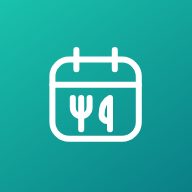
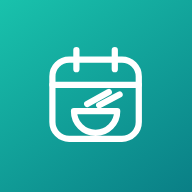
Add files via upload

diff --git a/index.html b/index.html
@@ -9,8 +9,8 @@ window.zmTheme=function(t){if(t){try{localStorage['meals.theme']=t}catch(e){}d.d
 var s=st();if(s)d.dataset.theme=s;zmTheme();m.addEventListener?m.addEventListener('change',function(){zmTheme()}):m.addListener&&m.addListener(function(){zmTheme()})})()</script>
 <meta name="apple-mobile-web-app-capable" content="yes">
 <meta name="apple-mobile-web-app-title" content="Zhou Menu">
-<link rel="manifest" href="manifest.json"><link rel="icon" href="icon-192.png">
-<link rel="apple-touch-icon" href="icon-192.png">
+<link rel="manifest" href="manifest.json"><link rel="icon" type="image/svg+xml" href="icon.svg"><link rel="icon" type="image/png" href="icon-192.png">
+<link rel="apple-touch-icon" href="icon-180.png">
 <title>Zhou Menu</title>
 <style>
 :root{--bg:#F1F4F3;--card:#fff;--blk:#E8EEEC;--ink:#17201E;--mute:#8A9591;--line:#EBF0EE;--line2:#D3DCD9;--acc:#2C6B5F;--acc-t:#DAEDE7;--hb:#DCE8FA;--hd:#4A7BCB;--ob:#E8DFF8;--od:#8A66C8;color-scheme:light}
@@ -26,7 +26,7 @@ h1{margin:0;font-size:26px;letter-spacing:-.02em}#wk{margin:2px 0 0;color:var(--
 .ib{position:relative;width:40px;height:40px;border:0;border-radius:12px;background:var(--card);color:var(--ink);display:grid;place-items:center;cursor:pointer;transition:transform .15s}
 .ib:active{transform:scale(.92)}
 svg{width:20px;height:20px;fill:none;stroke:currentColor;stroke-width:1.7;stroke-linecap:round;stroke-linejoin:round}
-#dot{position:absolute;top:8px;right:8px;width:8px;height:8px;border-radius:50%;background:var(--mute);border:2px solid var(--card);transition:background .3s}
+#dot{display:inline-block;width:6px;height:6px;border-radius:50%;margin-left:7px;vertical-align:middle;background:var(--mute);transition:background .3s}
 #dot[data-s=ok]{background:var(--acc)}#dot[data-s=sync]{background:#E0A63A;animation:pulse 1s infinite}#dot[data-s=off]{background:#D2625A}#dot[data-s=none]{display:none}
 @keyframes pulse{50%{opacity:.35}}
 .ban{display:flex;align-items:center;justify-content:space-between;gap:10px;background:var(--acc-t);border-radius:14px;padding:8px 8px 8px 14px;margin:0 0 12px;font-size:13px}
@@ -58,8 +58,8 @@ footer.hold{transform:scale(1.5);opacity:1;transition:transform .7s linear,opaci
 #bar{position:fixed;left:0;right:0;bottom:var(--kb,0px);max-width:560px;margin:0 auto;background:var(--card);border-radius:20px 20px 0 0;padding:12px 12px calc(env(safe-area-inset-bottom) + 8px);box-shadow:0 -8px 28px rgba(0,0,0,.14);transform:translateY(110%);transition:transform .34s cubic-bezier(.22,.9,.3,1);will-change:transform;z-index:55}
 #bar.on{transform:none}
 #bar .r{display:flex;gap:8px}
-#bar input,.sh input{font:inherit;font-size:16px;padding:11px 12px;border-radius:12px;border:1.5px solid var(--line2);background:var(--bg);color:var(--ink);outline:0;transition:border-color .2s}
-#bar input{flex:1;min-width:0}#bar input:focus,.sh input:focus{border-color:var(--acc)}
+#bar input,.sh input,#log input{font:inherit;font-size:16px;padding:11px 12px;border-radius:12px;border:1.5px solid var(--line2);background:var(--bg);color:var(--ink);outline:0;transition:border-color .2s}
+#bar input{flex:1;min-width:0}#bar input:focus,.sh input:focus,#log input:focus{border-color:var(--acc)}
 .tools{display:flex;gap:2px;margin-top:6px}
 .tools button{flex:1;border:0;background:none;color:var(--mute);font:inherit;font-size:11px;display:flex;flex-direction:column;align-items:center;gap:3px;padding:7px 0;border-radius:12px;cursor:pointer;transition:background .2s,color .2s}
 .tools button.on{background:var(--acc-t);color:var(--acc)}.tools [data-a=home].on{background:var(--hb);color:var(--hd)}.tools [data-a=out].on{background:var(--ob);color:var(--od)}.tools [data-a=del]{color:#C4574F}
@@ -69,7 +69,7 @@ footer.hold{transform:scale(1.5);opacity:1;transition:transform .7s linear,opaci
 #toast.on{transform:translate(-50%,0);opacity:1;pointer-events:auto}#toast button{border:0;background:none;color:inherit;font:inherit;font-weight:700;text-decoration:underline;cursor:pointer;padding:0 4px}
 #scrim{position:fixed;inset:0;background:rgba(0,0,0,.35);opacity:0;pointer-events:none;transition:opacity .3s;z-index:70}#scrim.on{opacity:1;pointer-events:auto}
 .sh{position:fixed;left:0;right:0;bottom:0;max-width:560px;margin:0 auto;background:var(--card);border-radius:22px 22px 0 0;padding:20px 18px calc(env(safe-area-inset-bottom) + 20px);transform:translateY(105%);transition:transform .4s cubic-bezier(.2,.8,.2,1);z-index:80}.sh.on{transform:none}
-.sh h2{margin:0 0 4px;font-size:19px}.sh p{margin:0 0 14px;color:var(--mute);font-size:13px}.sh input{width:100%}
+.sh h2{margin:0 0 4px;font-size:19px}.sh p{margin:0 0 14px;color:var(--mute);font-size:13px}.sh input,#log input{width:100%}#log .hi p{margin:0 0 12px;color:var(--mute);font-size:13px}
 .sh.tall{max-height:84dvh;overflow:auto}.btns{display:flex;gap:8px;margin-top:12px;flex-wrap:wrap}#msg{margin-top:10px;font-size:13px;color:var(--mute);min-height:1em}
 .hw{border-radius:14px;background:var(--bg);margin-bottom:8px;overflow:hidden}
 .hb{width:100%;display:flex;justify-content:space-between;align-items:center;border:0;background:none;color:var(--ink);font:inherit;font-weight:600;padding:14px;cursor:pointer;text-align:left}
@@ -81,7 +81,7 @@ footer.hold{transform:scale(1.5);opacity:1;transition:transform .7s linear,opaci
 .brand{display:flex;align-items:center;gap:10px}.brand .lg{width:36px;height:36px;color:var(--acc);stroke-width:2.4;flex:none}
 #splash{position:fixed;inset:0;z-index:200;display:grid;place-content:center;justify-items:center;gap:14px;background:linear-gradient(145deg,#19C2AC,#0A7F86);color:#fff;transition:opacity .45s}
 #splash.off{opacity:0;pointer-events:none}#splash b{font-size:22px;letter-spacing:.01em}#splash .lg{width:96px;height:96px;stroke-width:2.4}
-#splash .lg *{stroke-dasharray:1;stroke-dashoffset:1;animation:dr .8s ease forwards}#splash .lg :nth-child(2){animation-delay:.12s}#splash .lg :nth-child(3){animation-delay:.24s}#splash .lg :nth-child(4){animation-delay:.36s}
+#splash .lg *{stroke-dasharray:1;stroke-dashoffset:1;animation:dr .8s ease forwards}#splash .lg :nth-child(2){animation-delay:.12s}#splash .lg :nth-child(3){animation-delay:.24s}#splash .lg :nth-child(4){animation-delay:.36s}#splash .lg :nth-child(5){animation-delay:.48s}
 @keyframes dr{to{stroke-dashoffset:0}}
 .bw{min-width:0;flex:1;display:flex;flex-direction:column;overflow:hidden}.bn{font-size:11.5px;color:var(--mute);white-space:nowrap;overflow:hidden;text-overflow:ellipsis;margin-top:1px}
 .bk.nt{top:auto;bottom:7px;color:var(--mute)}.bk.nt svg{width:13px;height:13px}
@@ -103,25 +103,25 @@ footer.hold{transform:scale(1.5);opacity:1;transition:transform .7s linear,opaci
   <div class="brand"><svg class="lg" viewBox="0 0 48 48"></svg><div><h1>Zhou Menu</h1><p id="wk"></p></div></div>
   <div class="actions">
     <button class="ib" id="histBtn" aria-label="History"><svg viewBox="0 0 24 24"><path d="M3.5 12a8.5 8.5 0 1 0 2.6-6.1M3.5 4v4.5H8M12 7.5V12l3 2"/></svg></button>
-    <button class="ib" id="syncBtn" aria-label="Sync settings"><svg viewBox="0 0 24 24"><path d="M7 18a4 4 0 0 1-.6-7.96A5.5 5.5 0 0 1 17 8.5a4.75 4.75 0 0 1 0 9.5H7z"/></svg><i id="dot" data-s="none"></i></button>
   </div>
 </header>
 <div class="ban" id="ban" hidden><span id="bm"></span><button id="bgo"></button></div>
 <div class="ext" id="xt"></div>
 <main><div class="head"><span></span><b id="n0"></b><b id="n1"></b></div><div id="grid"></div></main>
 <div class="ext b" id="xb"></div>
-<footer id="ver"></footer>
+<footer id="ver"><span id="vt"></span><i id="dot" data-s="none"></i></footer>
 <div id="toast"><span id="tmsg"></span><button id="tact"></button></div>
 <div id="scrim"></div>
 <div id="bin" aria-hidden="true"><svg viewBox="0 0 24 24"><g class="lid"><path d="M4 7h16M9 7V4.5h6V7"/></g><path d="M6.5 7l1 13h9l1-13M10 11v5M14 11v5"/></svg></div>
-<div id="log"><div class="lh"><h2>What’s new</h2><button class="ib" id="thm"></button></div><p id="lv"></p><ul id="ll"></ul></div>
+<div id="log"><div class="lh"><h2>What’s new</h2><button class="ib" id="thm"></button></div><p id="lv"></p><ul id="ll"></ul>
+<div class="hw" id="syw" style="margin:14px 0 0"><button class="hb" id="syb"><span>Google Sheets sync<small id="ss"></small></span><svg viewBox="0 0 24 24"><path d="m6 9 6 6 6-6"/></svg></button>
+<div class="hx"><div class="hi" style="padding:0 14px 14px"><p>Paste your Apps Script web app URL. Share the invite link so both phones use the same sheet.</p>
+<input id="url" type="url" inputmode="url" placeholder="https://script.google.com/macros/s/…/exec" autocomplete="off">
+<div class="btns"><button class="btn p" id="connect">Connect</button><button class="btn" id="invite">Copy invite link</button><button class="btn" id="disc">Disconnect</button></div><div id="msg"></div></div></div></div></div>
 <div id="bar"><div class="r"><input id="mi" autocomplete="off" autocorrect="off" spellcheck="false" autocapitalize="sentences" enterkeyhint="done"><button class="btn p" id="bdone" style="flex:none;min-width:0">Done</button></div>
 <div id="nw"><div><textarea id="mn" placeholder="Notes, reminders or a grocery list" autocomplete="off" autocorrect="off" spellcheck="false" autocapitalize="sentences"></textarea></div></div>
 <div class="tools"><button data-a="home"></button><button data-a="out"></button><button data-a="note"></button><button data-a="split"></button><button data-a="rep"></button></div>
 <small>Tap empty boxes to add this meal. Tap an added one to remove it.</small></div>
-<div id="sheet" class="sh"><h2>Sync with Google Sheets</h2><p>Paste your Apps Script web app URL. Share the invite link so both phones use the same sheet.</p>
-<input id="url" type="url" inputmode="url" placeholder="https://script.google.com/macros/s/…/exec" autocomplete="off">
-<div class="btns"><button class="btn p" id="connect">Connect</button><button class="btn" id="invite">Copy invite link</button><button class="btn" id="disc">Disconnect</button></div><div id="msg"></div></div>
 <div id="hist" class="sh tall"><h2>History</h2><p id="hmsg"></p><div id="hlist"></div></div>
 <script>
 const DN=['Sat','Sun','Mon','Tue','Wed','Thu','Fri','Sat','Sun'],ROW=64,K='meals.v1',SK='meals.sync',HK='meals.hist',PK='meals.pend';
@@ -130,7 +130,7 @@ const svg=p=>`<svg viewBox="0 0 24 24">${p}</svg>`;
 const HOME=svg('<path d="M3.5 11 12 3.5l8.5 7.5M5.5 9.5V20h13V9.5M10 20v-5.5h4V20"/>'),OUT=svg('<path d="M5 3v5a3 3 0 0 0 6 0V3M8 3v18M17 21V3c-2.2 1.2-3 3.8-3 7 0 1.7 1 2.5 3 2.5"/>'),CHEV=svg('<path d="m6 9 6 6 6-6"/>');
 const SPLIT=svg('<rect x="3.5" y="4.5" width="7" height="15" rx="2"/><rect x="13.5" y="4.5" width="7" height="15" rx="2"/>'),JOIN=svg('<rect x="3.5" y="4.5" width="17" height="15" rx="2"/>'),REP=svg('<rect x="8.5" y="8.5" width="11" height="11" rx="2.5"/><path d="M15.5 5.5v-1a1 1 0 0 0-1-1h-10a1 1 0 0 0-1 1v10a1 1 0 0 0 1 1h1"/>'),DEL=svg('<path d="M4 7h16M9 7V4.5h6V7M6.5 7l1 13h9l1-13M10 11v5M14 11v5"/>');
 const esc=s=>s.replace(/[&<>"]/g,c=>({'&':'&amp;','<':'&lt;','>':'&gt;','"':'&quot;'}[c]));
-const LOGO='<rect x="6" y="9" width="36" height="33" rx="7" pathLength="1"/><path pathLength="1" d="M6 19.5h36M16 5v8M32 5v8"/><path pathLength="1" d="M14.5 25v4a3.5 3.5 0 0 0 7 0v-4M18 25v13"/><path pathLength="1" d="M30 38V25c-2.4 1.2-3.5 4-3.5 7 0 1.8 1.2 2.7 3.5 2.7"/>';
+const LOGO='<rect x="6" y="9" width="36" height="33" rx="7" pathLength="1"/><path pathLength="1" d="M6 19.5h36M16 5v8M32 5v8"/><path pathLength="1" d="M15 30.5h18a9 9 0 0 1-18 0z"/><path pathLength="1" d="M20.5 27.5 29.5 22.5"/><path pathLength="1" d="M25.5 28 34 23.5"/>';
 document.querySelectorAll('.lg').forEach(e=>e.innerHTML=LOGO);
 const sp=$('#splash');setTimeout(()=>{sp.classList.add('off');setTimeout(()=>sp.remove(),500)},950);
 const norm=t=>(t||'').trim().toLowerCase();let orig='';
@@ -301,7 +301,7 @@ async function openHist(){show('hist');$('#hmsg').textContent='Tap a week to vie
 $('#histBtn').onclick=openHist;
 
 /* sync (Google Apps Script web app, last-write-wins on updatedAt) */
-const dot=$('#dot'),st=s=>dot.dataset.s=API?s:'none';
+const dot=$('#dot'),SS={ok:'Connected',sync:'Syncing…',off:'Can’t reach the sheet',none:'Not connected'},st=s=>{const v=API?s:'none';dot.dataset.s=v;$('#ss').textContent=SS[v]};
 function adopt(r){S=mig(r);if(sel&&!get(sel))sel=null;localStorage[K]=JSON.stringify(S);render()}
 async function send(){const r=await fetch(API,{method:'POST',headers:{'Content-Type':'text/plain;charset=utf-8'},body:JSON.stringify(S)});const w=await r.json();if(w&&w.updatedAt>S.updatedAt)adopt(w)}
 let pt=0,busy=false;
@@ -311,8 +311,8 @@ async function pull(){if(!API){autoRoll();return}if(busy||drag||rz||document.act
 setInterval(()=>document.visibilityState==='visible'&&pull(),15000);document.addEventListener('visibilitychange',()=>document.visibilityState==='visible'&&pull());addEventListener('online',pull);
 
 /* what's new + theme + hold-the-version */
-const LOG=[{v:'1.5',d:'2026-10-20',n:['Hold the version number at the bottom to open this panel.','Light and dark mode switch, top right of this panel.','Drag a meal onto the bin that appears to delete it. Undo is offered.','Removed the reset button and the Delete tool.']}];
-const ver=$('#ver'),cur=LOG[0];ver.textContent='v'+cur.v;$('#lv').textContent='Version '+cur.v+' · released '+pd(cur.d).toLocaleDateString(undefined,{day:'numeric',month:'long',year:'numeric'});
+const LOG=[{v:'1.6',d:'2026-10-20',n:['New logo: a calendar with a bowl and chopsticks, in the header, loading screen and app icon.','Sharper, higher-resolution app icon. Re-add the app to your home screen to see it.','Google Sheets sync settings now live in this panel, below. A small dot beside the version number shows the sync status.']}];
+const ver=$('#ver'),cur=LOG[0];$('#vt').textContent='v'+cur.v;$('#lv').textContent='Version '+cur.v+' · released '+pd(cur.d).toLocaleDateString(undefined,{day:'numeric',month:'long',year:'numeric'});
 $('#ll').innerHTML=cur.n.map(t=>`<li>${esc(t)}</li>`).join('');
 const SUN=svg('<circle cx="12" cy="12" r="4"/><path d="M12 2.5v2M12 19.5v2M2.5 12h2M19.5 12h2M5.3 5.3l1.4 1.4M17.3 17.3l1.4 1.4M5.3 18.7l1.4-1.4M17.3 6.7l1.4-1.4"/>'),MOON=svg('<path d="M20 14.5A8 8 0 1 1 9.5 4a6.5 6.5 0 0 0 10.5 10.5z"/>');
 function themeBtn(){const d=zmTheme()==='dark',b=$('#thm');b.innerHTML=d?SUN:MOON;b.setAttribute('aria-label',d?'Switch to light mode':'Switch to dark mode')}
@@ -322,15 +322,16 @@ ver.addEventListener('pointerdown',e=>{vs=[e.clientX,e.clientY];ver.classList.ad
 ['pointerup','pointercancel','pointerleave'].forEach(t=>ver.addEventListener(t,vc));
 ver.addEventListener('pointermove',e=>{if(vs&&Math.hypot(e.clientX-vs[0],e.clientY-vs[1])>12)vc()});ver.addEventListener('contextmenu',e=>e.preventDefault());
 /* sheets */
-const sheet=$('#sheet'),scrim=$('#scrim'),msg=$('#msg'),hs=$('#hist');
+const scrim=$('#scrim'),msg=$('#msg'),hs=$('#hist');
 let lt=0;
-function show(w){sheet.classList.toggle('on',w==='sync');hs.classList.toggle('on',w==='hist');$('#log').classList.toggle('on',w==='log');scrim.classList.toggle('on',!!w);if(w==='log')lt=Date.now();
-  if(w==='sync'){$('#url').value=API;$('#invite').style.display=$('#disc').style.display=API?'':'none';msg.textContent=''}}
-$('#syncBtn').onclick=()=>show('sync');scrim.onclick=()=>{if(Date.now()-lt>450)show(false)};addEventListener('keydown',e=>{if(e.key==='Escape')show(false)});
+function show(w){hs.classList.toggle('on',w==='hist');$('#log').classList.toggle('on',w==='log');scrim.classList.toggle('on',!!w);if(w==='log'){lt=Date.now();syncUI()}}
+function syncUI(){st(API?(dot.dataset.s==='none'?'ok':dot.dataset.s):'none');$('#url').value=API;$('#invite').style.display=$('#disc').style.display=API?'':'none';$('#syw').classList.toggle('open',!API)}
+$('#syb').onclick=()=>$('#syw').classList.toggle('open');
+scrim.onclick=()=>{if(Date.now()-lt>450)show(false)};addEventListener('keydown',e=>{if(e.key==='Escape')show(false)});
 $('#connect').onclick=async()=>{const u=$('#url').value.trim();if(!u)return;msg.textContent='Connecting…';API=u;localStorage[SK]=u;await pull();
-  if(dot.dataset.s==='ok'){msg.textContent='';show(false);toast('Connected')}else msg.textContent='Could not reach that URL. Check the deployment is set to "Anyone".'};
+  if(dot.dataset.s==='ok'){msg.textContent='Connected.';syncUI()}else msg.textContent='Could not reach that URL. Check the deployment is set to "Anyone".'};
 $('#invite').onclick=async()=>{const l=location.origin+location.pathname+'#sync='+encodeURIComponent(API);try{await navigator.clipboard.writeText(l);msg.textContent='Invite link copied.'}catch{msg.textContent=l}};
-$('#disc').onclick=()=>{API='';localStorage.removeItem(SK);st('none');show(false);toast('Sync turned off')};
+$('#disc').onclick=()=>{API='';localStorage.removeItem(SK);st('none');syncUI();msg.textContent='Sync turned off.'};
 
 if(!API)autoRoll();render();st('ok');setTimeout(()=>B.classList.remove('boot'),900);pull();
 if('serviceWorker' in navigator)navigator.serviceWorker.register('sw.js');
